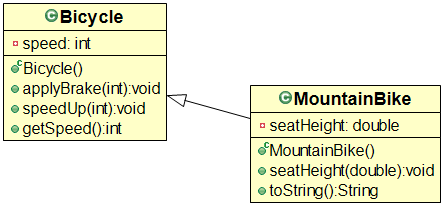
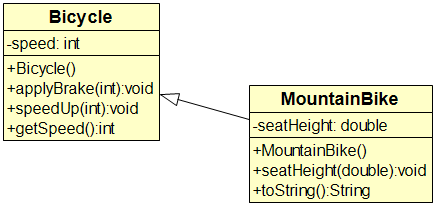
d

diff --git a/class3/PITCHME.md b/class3/PITCHME.md
@@ -84,9 +84,6 @@ We can write a new class, but its will duplicate a lot of code.
 ---
 @img[span-80](class3/resources/employees.png)
 
-@css[text-red](Red) for `private`,
-@css[text-green](Green) for `public`,
-@css[text-green](yellow) for `protected`,
 
 
 
